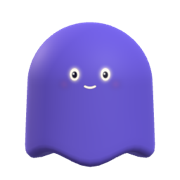
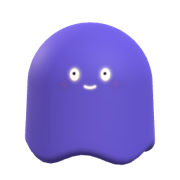
Black face by default, shorter title, moodi 0.1.1
Auto face color is now near-black on every palette except very dark
bodies (Ink), so the default Iris ghost has black eyes and mouth. The
favicon keeps its white glowing eyes. OG image bumped to v2. Page title
shortened to "moodi – 3D mood buddies".

diff --git a/packages/moodi/src/core/color.ts b/packages/moodi/src/core/color.ts
@@ -41,12 +41,12 @@ export const mix = (a: RGB, b: RGB, t: number): RGB => [
 const lin = (v: number) => (v <= 0.04045 ? v / 12.92 : Math.pow((v + 0.055) / 1.055, 2.4));
 export const luminance = (c: RGB) => 0.2126 * lin(c[0]) + 0.7152 * lin(c[1]) + 0.0722 * lin(c[2]);
 
-const INK: RGB = [0.16, 0.11, 0.1];
+const INK: RGB = [0.07, 0.06, 0.08];
 const CREAM: RGB = [1, 0.97, 0.93];
 const ROSE: RGB = [1, 0.42, 0.48];
 
-/** Dark warm ink on light bodies, cream on dark ones. */
-export const autoFace = (body: RGB): RGB => (luminance(body) > 0.18 ? mix(INK, body, 0.12) : CREAM);
+/** Near-black on most bodies (the default Iris included), cream only on very dark ones like Ink. */
+export const autoFace = (body: RGB): RGB => (luminance(body) > 0.06 ? mix(INK, body, 0.06) : CREAM);
 
 /** Blush that sits naturally on the body color. */
 export const autoCheek = (body: RGB): RGB => mix(body, ROSE, 0.78);

diff --git a/apps/site/components/playground.tsx b/apps/site/components/playground.tsx
@@ -21,7 +21,7 @@ import { CheckIcon, CopyIcon, GitHubIcon, MoonIcon, PauseIcon, SunIcon } from ".
 
 const BODY = Object.entries(PALETTES).map(([name, color]) => ({ name, color }));
 const FACE = [
-  { name: "Ink", color: "#2a1d18" },
+  { name: "Black", color: "#121014" },
   { name: "Cream", color: "#fff6ee" },
   { name: "Night", color: "#1e2a44" },
 ];
@@ -146,7 +146,7 @@ export function Playground() {
               auto
               value={state.faceColor}
               options={FACE.slice(0, 2)}
-              pickerBase="#2a1d18"
+              pickerBase="#121014"
               onChange={(c) => set("faceColor", c)}
             />
           </Row>

diff --git a/apps/site/app/layout.tsx b/apps/site/app/layout.tsx
@@ -16,11 +16,11 @@ const geistMono = Geist_Mono({
 // A new file name whenever the picture changes: X, Facebook, LinkedIn and Slack cache a link preview by its image URL.
 // Regenerate it by screenshotting /og at 1200×630.
 const OG_IMAGE = {
-  url: "/opengraph-v1.png",
+  url: "/opengraph-v2.png",
   width: 1200,
   height: 630,
   type: "image/png",
-  alt: "moodi: a smiling purple 3D ghost next to the words Tiny 3D mood buddies for your UI and npm i moodi",
+  alt: "moodi: a smiling purple 3D ghost with a black face next to the words Tiny 3D mood buddies for your UI and npm i moodi",
 };
 
 export const metadata: Metadata = {

diff --git a/apps/site/components/controls.tsx b/apps/site/components/controls.tsx
@@ -57,7 +57,7 @@ export function Swatches({ label, value, options, onChange, auto, pickerBase }: 
             className="press relative grid size-[22px] place-items-center rounded-full"
           >
             <span
-              className="size-[18px] rounded-full shadow-[inset_0_0_0_1px_rgb(0_0_0/0.12)]"
+              className="size-[18px] rounded-full shadow-[inset_0_0_0_1px_color-mix(in_oklab,var(--fg)_22%,transparent)]"
               style={{ background: o.color }}
             />
             <span

diff --git a/apps/site/lib/site.ts b/apps/site/lib/site.ts
@@ -5,7 +5,7 @@ export const SITE_URL = (
     : "http://localhost:3000")
 ).replace(/\/$/, "");
 export const SITE_NAME = "moodi";
-export const SITE_TITLE = "Tiny 3D Mood Buddies for Your UI | moodi";
+export const SITE_TITLE = "moodi – 3D mood buddies";
 /** The meta description (search results): 150 characters at most. */
 export const SITE_DESCRIPTION =
   "moodi is a tiny 3D character for your website. One line of code, and its face shows what is happening: thinking, loading, happy, error.";

diff --git a/apps/site/app/og/icon/page.tsx b/apps/site/app/og/icon/page.tsx
@@ -9,7 +9,7 @@ export default function IconCard() {
     <>
       <style>{`html,body{background:transparent!important}`}</style>
       <div className="size-[256px] overflow-hidden">
-        <Moodi size={320} style={{ margin: "-44px 0 0 -32px" }} followCursor={false} interactive={false} shadow={false} speed={0} />
+        <Moodi size={320} faceColor="#fff6ee" style={{ margin: "-44px 0 0 -32px" }} followCursor={false} interactive={false} shadow={false} speed={0} />
       </div>
     </>
   );

diff --git a/apps/site/app/page.tsx b/apps/site/app/page.tsx
@@ -15,7 +15,7 @@ const structuredData = {
   license: "https://opensource.org/licenses/MIT",
   offers: { "@type": "Offer", price: "0", priceCurrency: "USD" },
   sameAs: [GITHUB_URL, NPM_URL],
-  image: `${SITE_URL}/opengraph-v1.png`,
+  image: `${SITE_URL}/opengraph-v2.png`,
   creator: {
     "@type": "Person",
     name: AUTHOR.name,

diff --git a/DECISIONS.md b/DECISIONS.md
@@ -52,7 +52,7 @@ Choices made where the spec left room, or where the owner changed it.
   neighbours (`oklch(from …)`), blended `screen` on dark and `multiply` on light.
 - `/lab` renders the full shape × mood matrix for visual checks (noindex).
 - `/og`, `/og/icon` and `/og/readme` are compositions used to regenerate
-  `public/opengraph-v1.png`, `app/icon.png`, `app/apple-icon.png` and
+  `public/opengraph-v2.png`, `app/icon.png`, `app/apple-icon.png` and
   `.github/assets/readme.png` from a real render (headless screenshot), not a drawing.
 - Domain: `moodi.dev` is not registered yet; `SITE_URL` falls back to the Vercel
   production URL.
@@ -63,7 +63,7 @@ Choices made where the spec left room, or where the owner changed it.
   description, a ≤120-char OG description, the X handle and `jsonLd()`.
 - Root metadata: title template `%s | moodi`, keywords, category, author/creator, robots with
   `max-image-preview: large`, Open Graph + Twitter `summary_large_image` with a versioned
-  image (`public/opengraph-v1.png`; bump the number whenever the picture changes, link
+  image (`public/opengraph-v2.png`; bump the number whenever the picture changes, link
   previews cache by URL). Pages set `alternates.canonical`.
 - `robots.ts` (disallows `/lab` and `/og`), `sitemap.ts` (`/`, `/docs`), a
   `SoftwareApplication` JSON-LD with the creator on the home page, a noindex 404.
